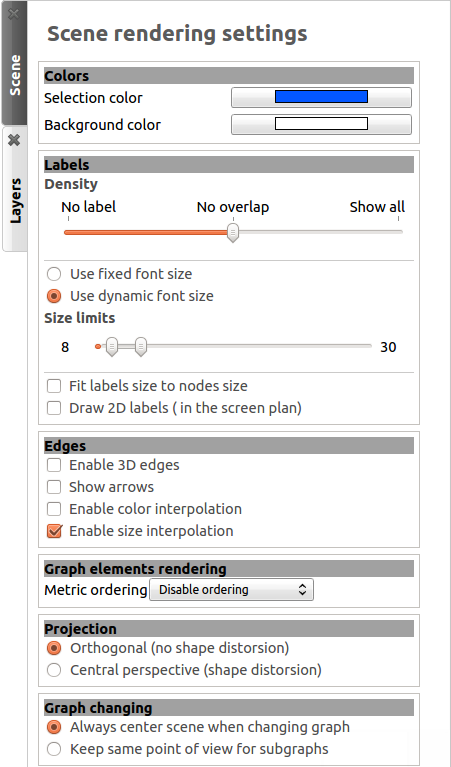
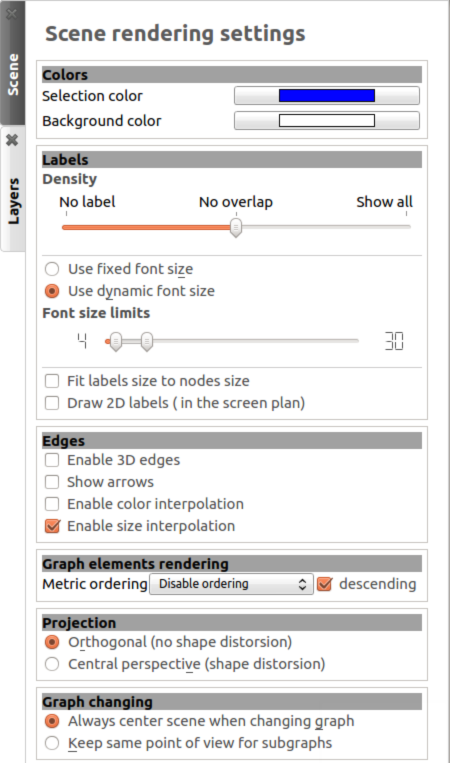
enhancements for the "Scene" part of the node-link diagram documentation
git-svn-id: https://svn.code.sf.net/p/auber/code/tulip@11543 f5d4c5f9-c943-4916-8a57-bd8605bf961c

diff --git a/doc/user/workspace.rst b/doc/user/workspace.rst
@@ -273,16 +273,17 @@ This element of the node link diagram panel is located at the top of the window 
 
 The first one, when clicked on, opens the configuration panel, giving explanations about the currently selected tool and proposing the advanced options.
 
-.. image:: _images/i_workspace_toolbar_configuration.png
-    :width: 300
+Before clicking:
 
+.. image:: _images/i_workspace_toolbar_configuration.png
+
+After clicking:
+	   
 .. image:: _images/i_workspace_toolbar_configuration_clicked.png
-    :width: 300
 
 The second part contains the tools icons:
 
 .. image:: _images/icon_wst_toolbar.png
-    :width: 342
 
 The use of the tools will not be explained in detail here. More information about their use can be found by selecting the tool and clicking on the configuration panel button.
 
@@ -328,14 +329,15 @@ Scene
 The scene rendering settings can be opened by clicking on the **Scene** tab, in the top right corner of the node link diagram panel. The following tab then appears :
 
 .. image:: _images/i_workspace_scene.png
-    :width: 452
 
 
-* **Labels**: manage the labels display by ordering them according to a metric, adapting their size so they can fit into their respective nodes, choosing the number of labels simultaneously displayed and setting their limit size. 
+* **Colors**: customize the selection and background colors.
+
+* **Labels**: manage the labels display by adapting their size so they can fit into their respective nodes, choosing the number of labels simultaneously displayed and setting the size limits of the used font. 
 
 * **Edges**: manage the edge display by enabling the 3D edges, showing the arrows, enabling the color or the size interpolations.
 
-* **Colors**: customize the selection and background colors.
+* **Graph elements rendering**: manage the display of the graph nodes/edges and their labels by ordering them according to a given metric. 
 
 * **Projection**: select the orthogonal or classic perspective projection.
 
